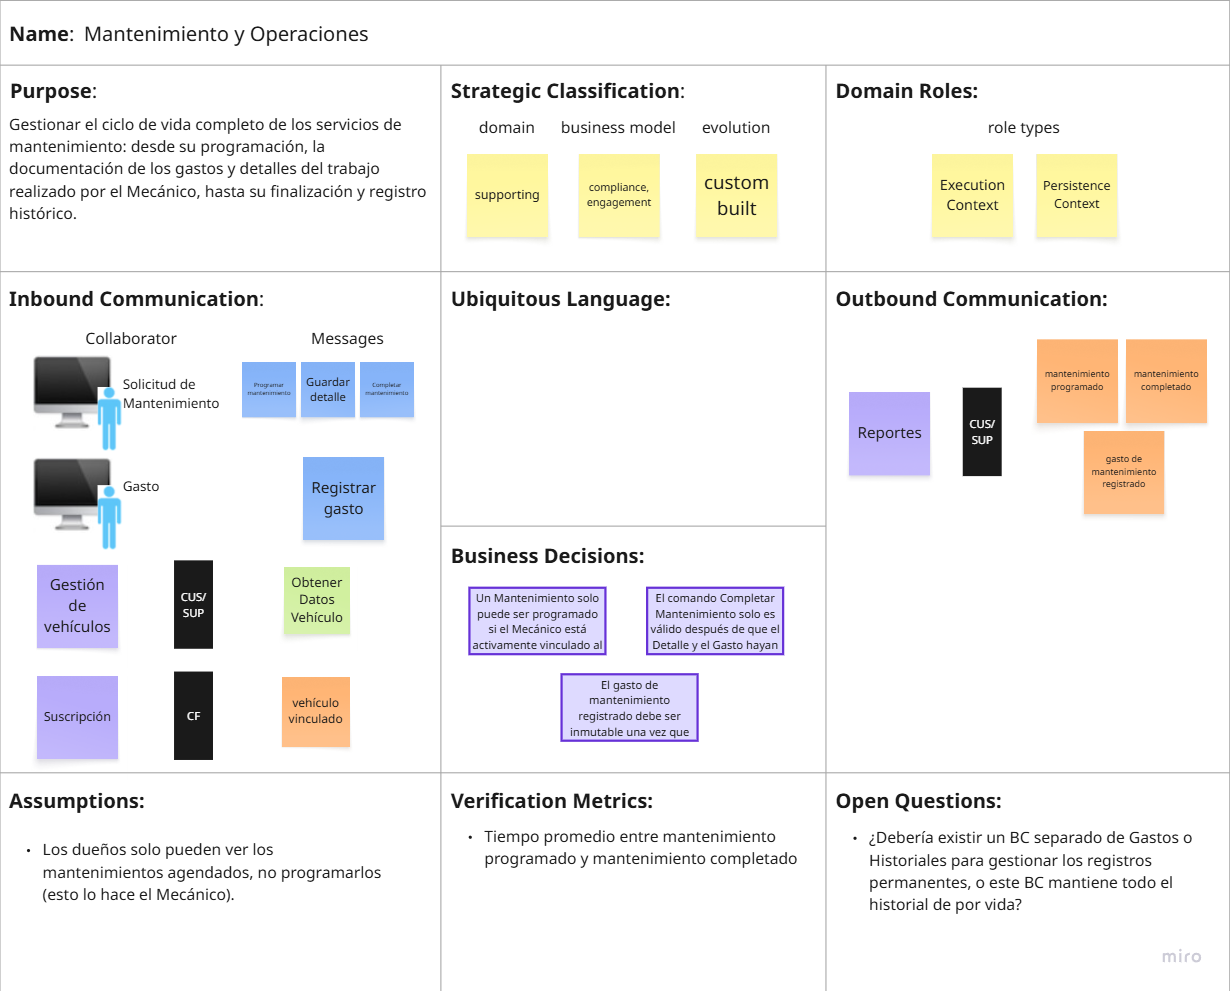
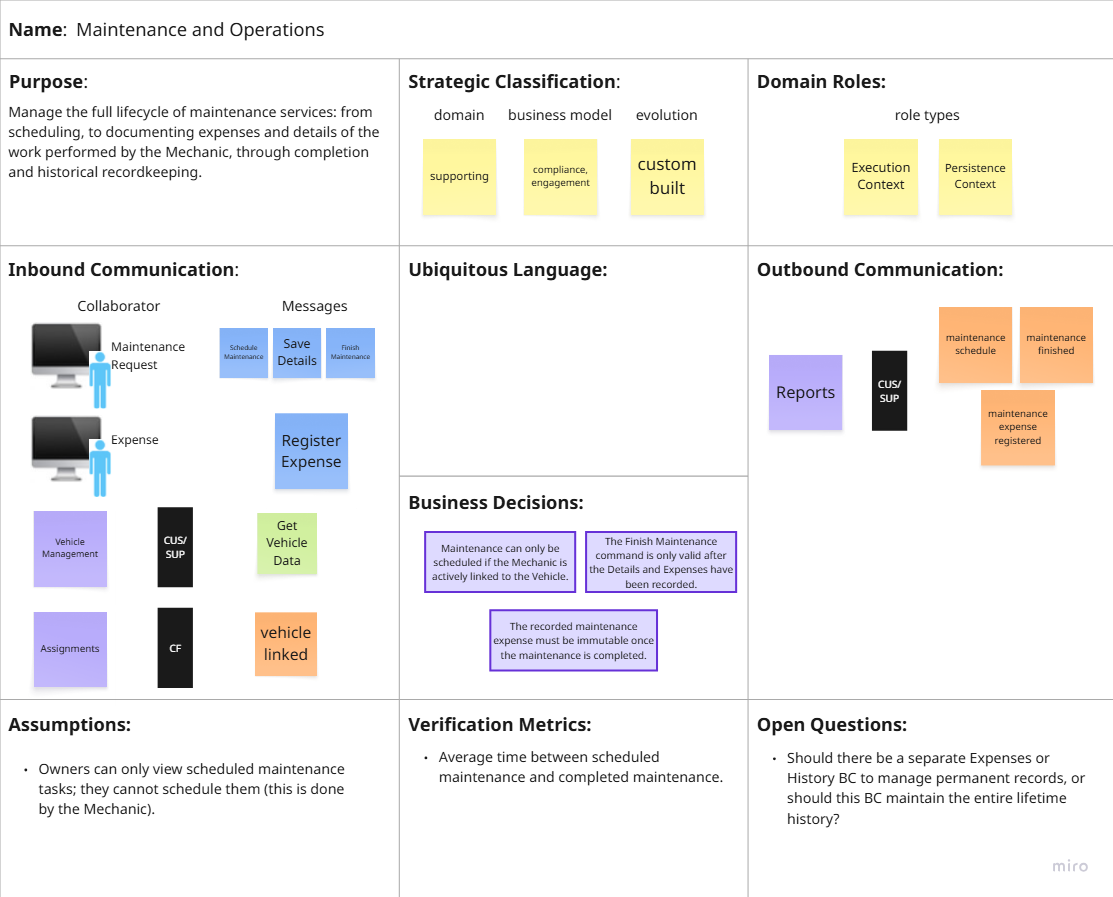
fix: bc canvas english

diff --git a/README.md b/README.md
@@ -1456,9 +1456,9 @@ En esta sección se desarrollan los Bounded Context Canvases correspondientes a 
 
 <img src="images/chapter-4/bc-canvas-reports.png" alt="Bounded Context Canvas Reports">
 
-**Subscription**
+**Assignments**
 
-<img src="images/chapter-4/bc-canvas-subscription.png" alt="Bounded Context Canvas Subscription">
+<img src="images/chapter-4/bc-canvas-assignments.png" alt="Bounded Context Canvas Subscription">
 
 **Vehicle Management**
 
